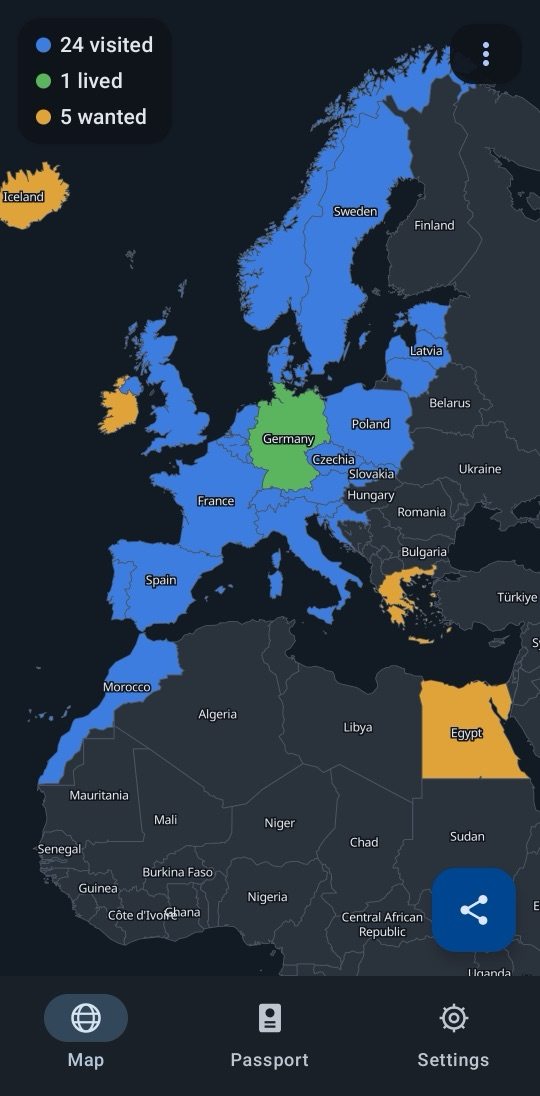
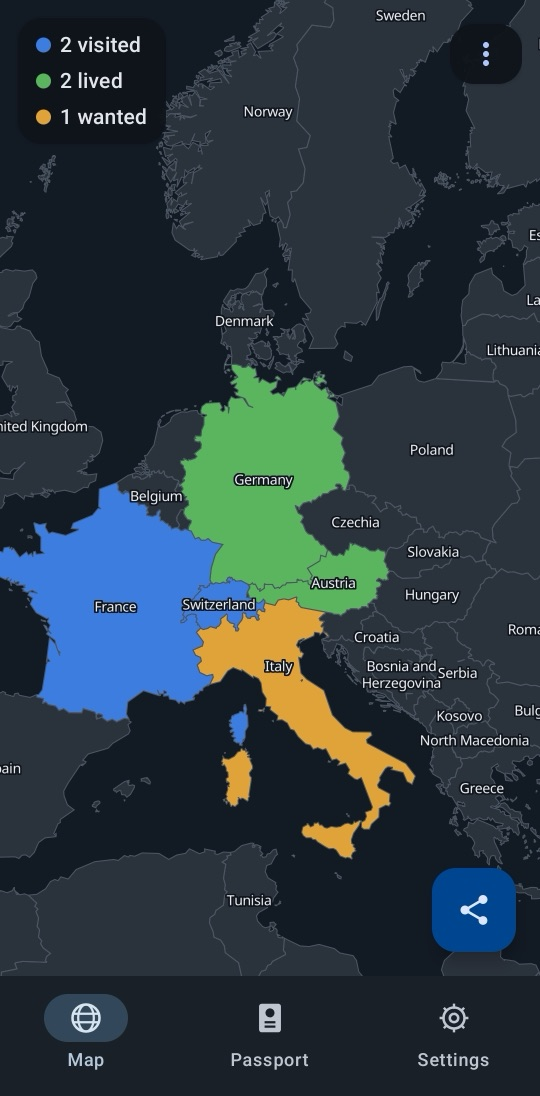
Replace screenshots with a fresh dark set at 540 px wide

diff --git a/README.md b/README.md
@@ -35,10 +35,8 @@ basemap, no tile server and no API key.
   <tr>
     <td align="center"><img src="docs/screenshots/map.jpg" width="180" alt="Travel map"><br><sub>Travel map</sub></td>
     <td align="center"><img src="docs/screenshots/visa-lens.jpg" width="180" alt="Visa lens"><br><sub>Visa lens</sub></td>
-    <td align="center"><img src="docs/screenshots/passport-list.jpg" width="180" alt="Passport list"><br><sub>Passport list</sub></td>
-    <td align="center"><img src="docs/screenshots/share-card.jpg" width="180" alt="Share card"><br><sub>Share card</sub></td>
-    <td align="center"><img src="docs/screenshots/stats.jpg" width="180" alt="Stats"><br><sub>Stats</sub></td>
     <td align="center"><img src="docs/screenshots/where-i-can-go.jpg" width="180" alt="Where I can go"><br><sub>Where I can go</sub></td>
+    <td align="center"><img src="docs/screenshots/settings.jpg" width="180" alt="Settings"><br><sub>Settings</sub></td>
   </tr>
 </table>
 
